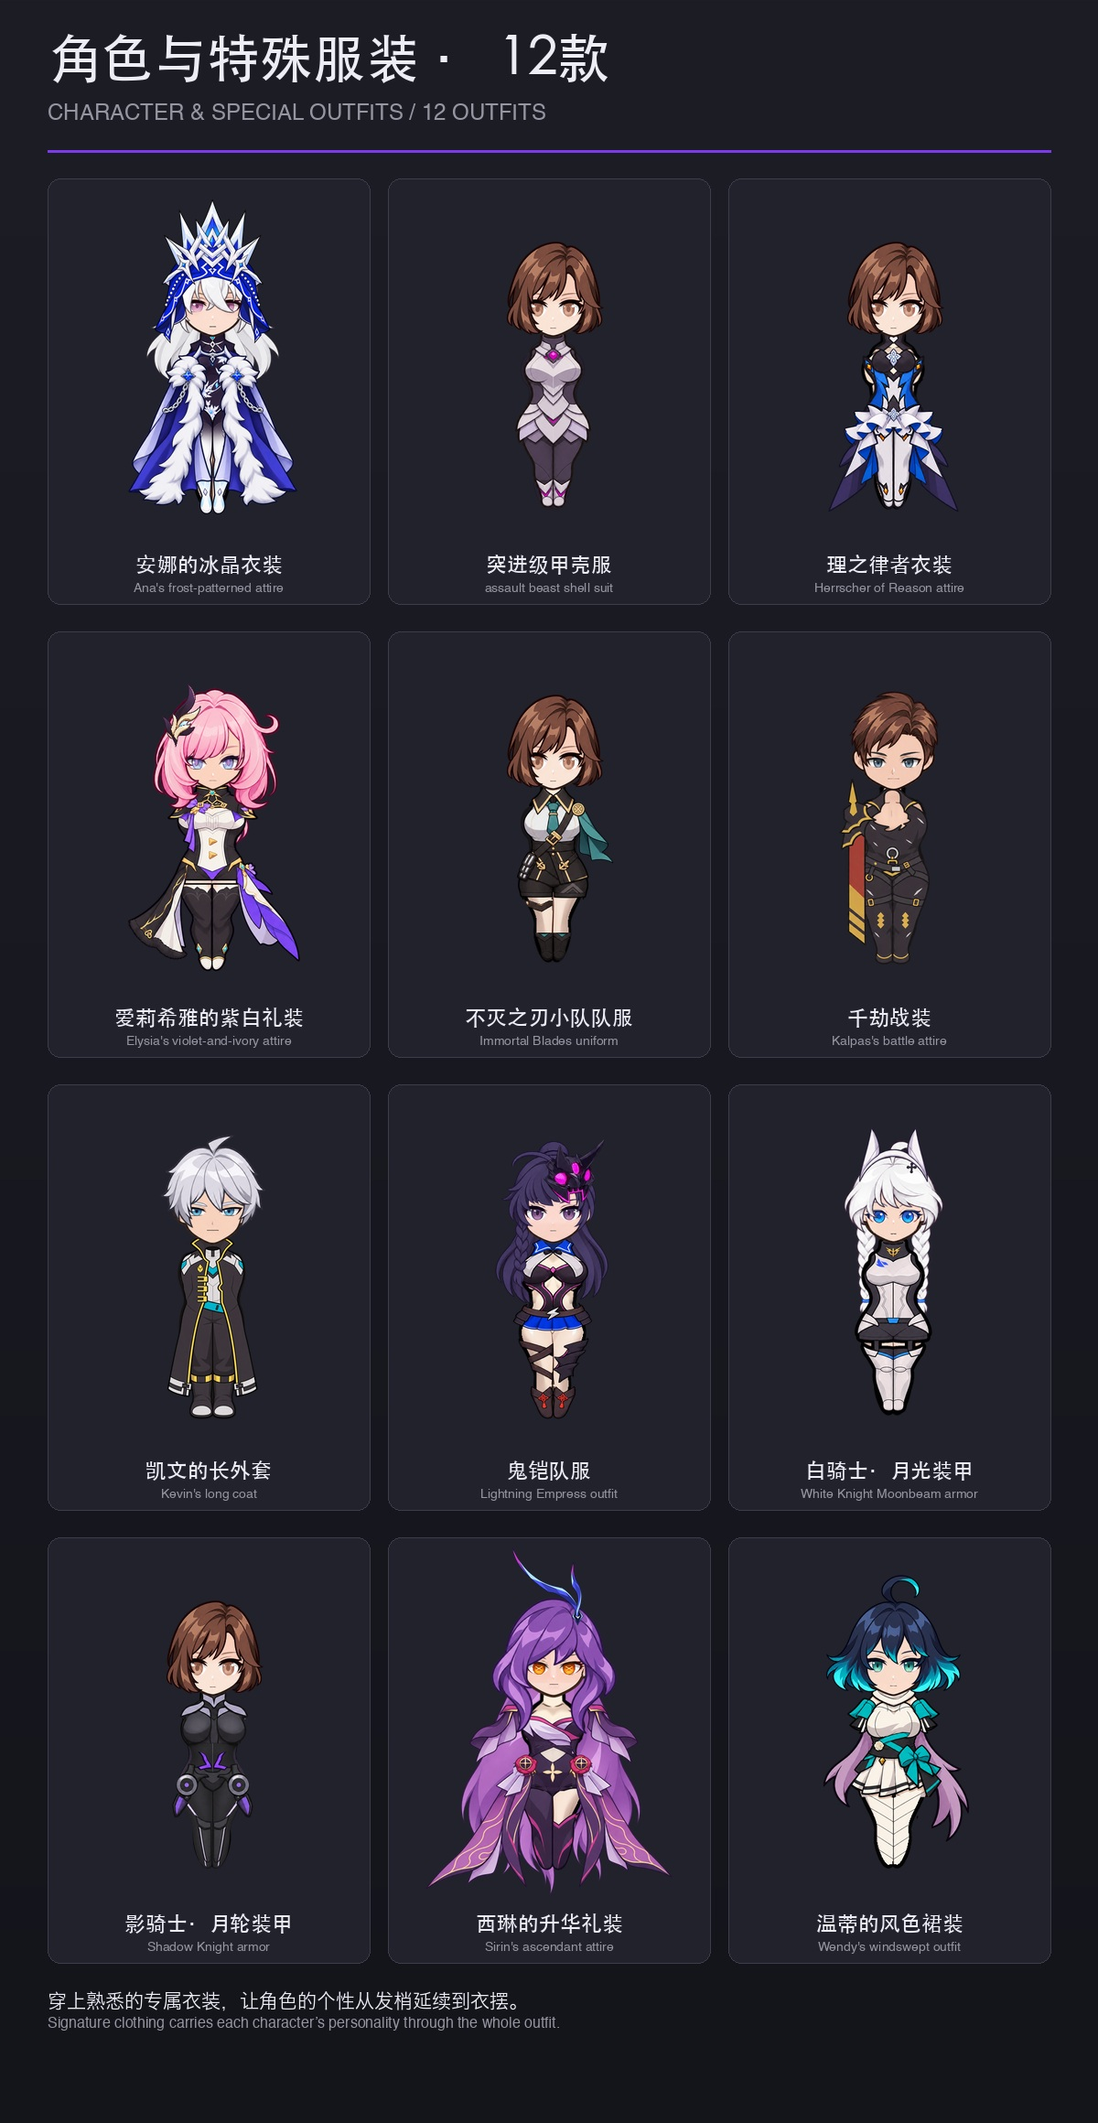
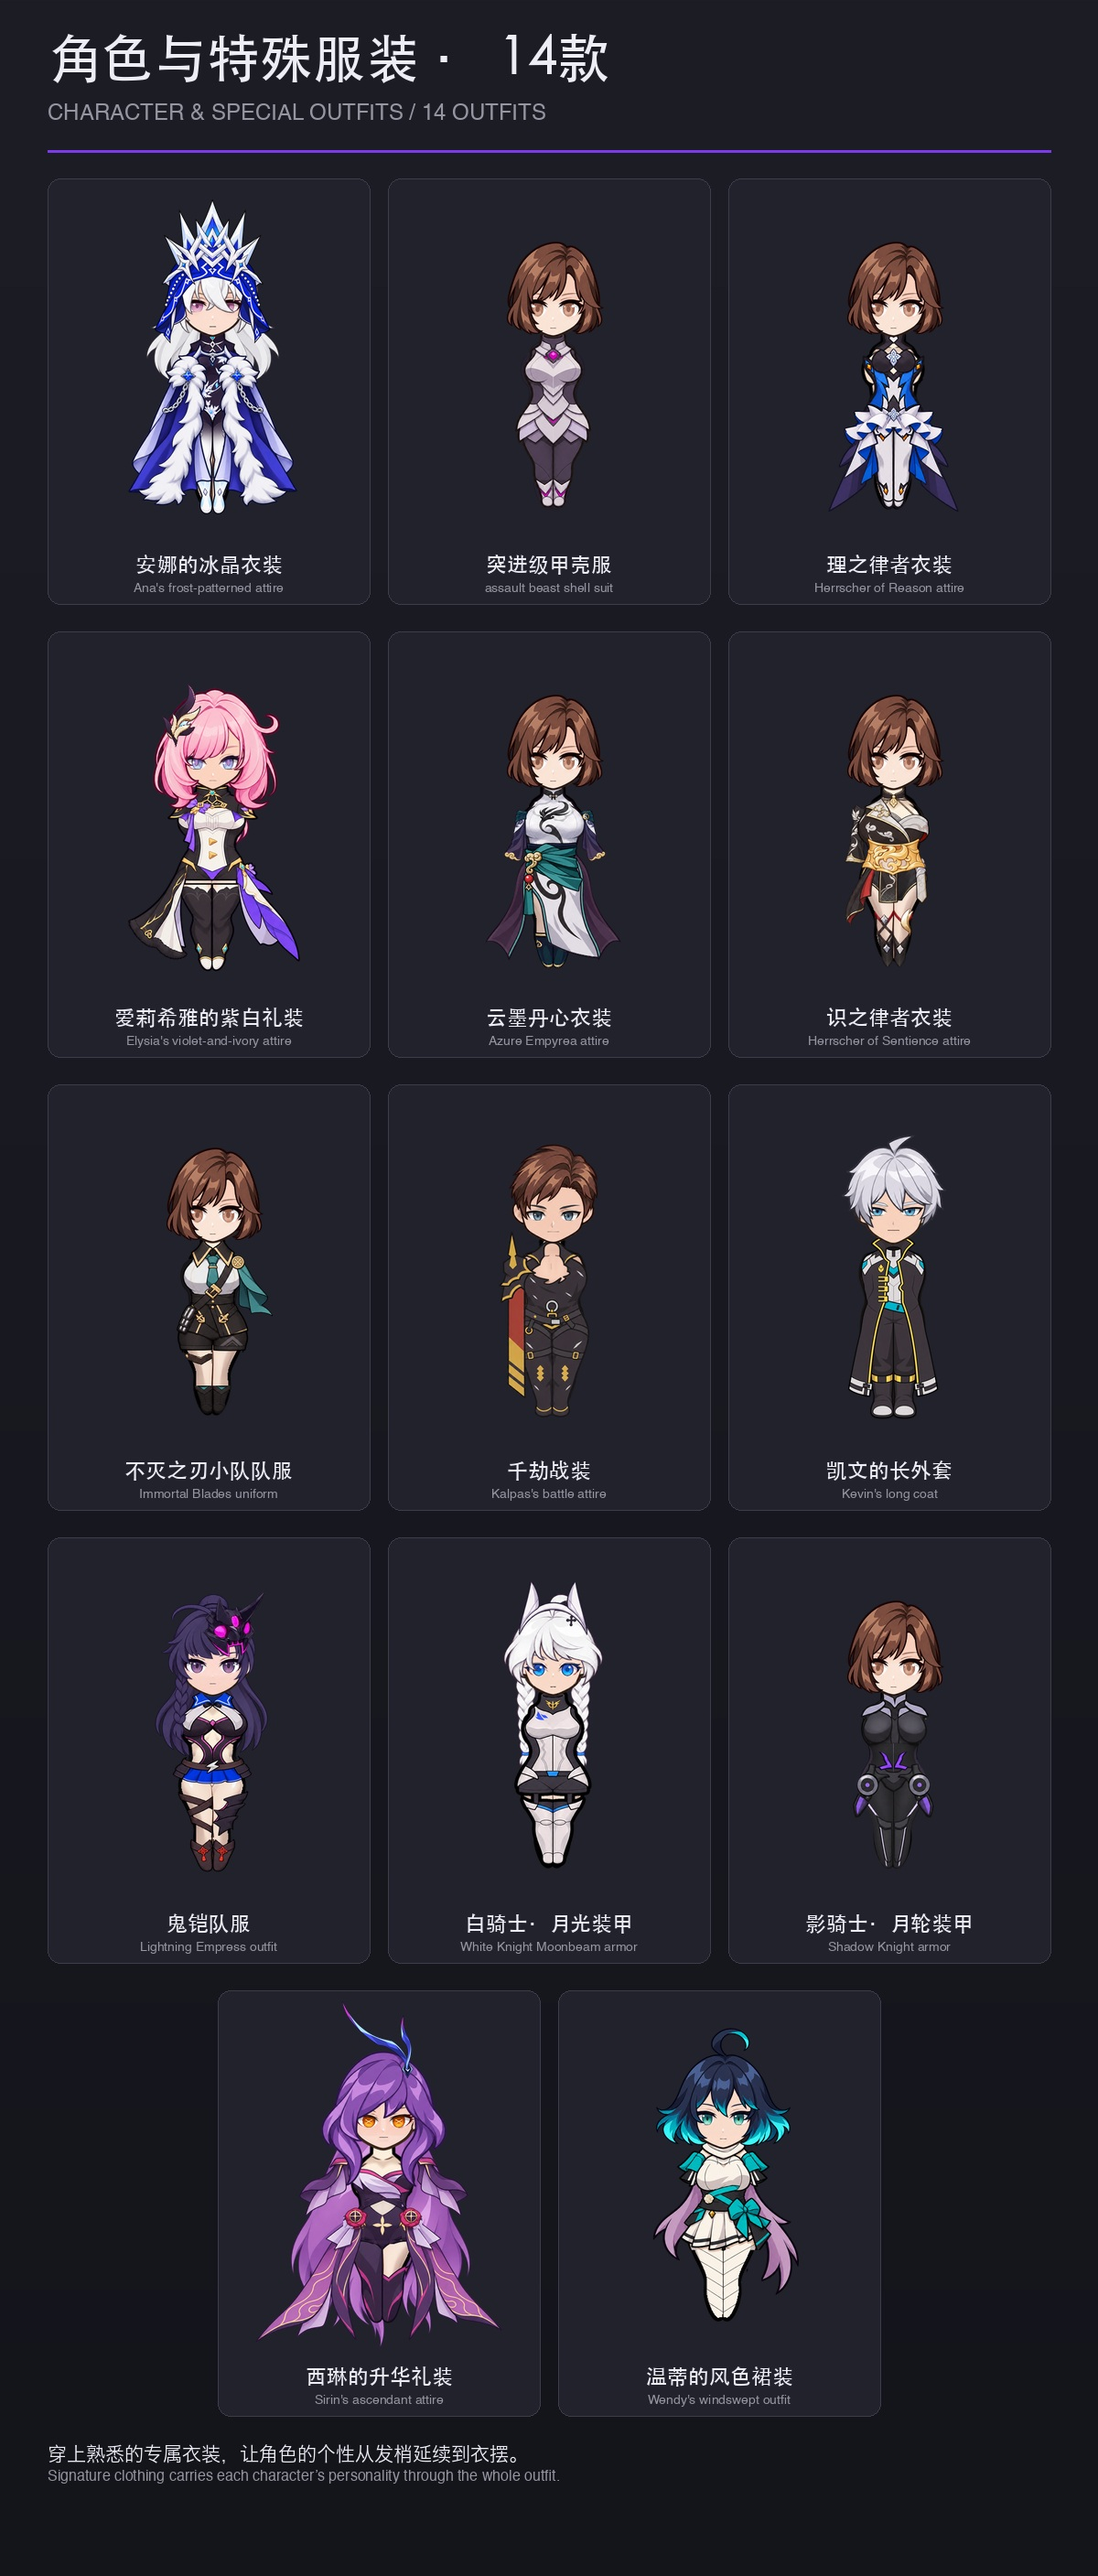
release: sync v0.1.4 documentation and images

Changed region(s): [[0.0308, 0.0, 0.74, 0.9621], [0.74, 0.0931, 0.8942, 0.931]]

diff --git a/README.md b/README.md
@@ -1,13 +1,11 @@
-# 边缘崩坏角色拓展: 群像
+# 边缘崩坏群像
 
-RimWorld 1.6 / 1.7 · Beta 0.1.0
+RimWorld 1.6 / 1.7 · Beta v0.1.4
 
-本库用于发布安装包、SHA256、版本说明及 Steam 页面配图，源码位于 https://github.com/ALANotFound/RimHonkai-Characters 。
+[下载最新版本](https://github.com/ALANotFound/RimHonkai-Characters-Releases/releases/latest) · [版本与更新说明](https://github.com/ALANotFound/RimHonkai-Characters-Releases/releases) · [Steam 创意工坊](https://steamcommunity.com/sharedfiles/filedetails/?id=3838570783)
 
-下载版本化 ZIP 后，将其中 `RimHonkai-Characters` 文件夹放进 RimWorld 的 Mods 目录。依赖和功能以源码仓库 `publishing/SteamWorkshopDescription.zh-CN.bbcode.txt` 为准。
+下载 ZIP，解压后将 `RimHonkai-Characters` 文件夹放入游戏的 Mods 目录。请同时安装群像框架 v0.1.4 或更新版本、Harmony 和 HAR。更新后重启游戏，并提前备份存档。
 
-当前状态（2026-11-13）：公开图片托管已上线至 main/images；尚未发布安装包或创建 GitHub Release；Steam 条目 ID 待首次创建后回填。
+本库保存发行包、校验文件、发布说明及工坊配图。[源码仓库](https://github.com/ALANotFound/RimHonkai-Characters)。
 
-## 页面内容维护
-
-内容来自源码仓库 `publishing/workshop_content.json`，禁止在本库分叉维护。图片由源码发布脚本同步到 `images/`；版本说明来自对应 `release-notes/vVERSION.md`。
+页面内容与图片由源码仓库的 publishing 配置维护，版本更新说明以各版本 Release 为准。

diff --git a/CHANGELOG.md b/CHANGELOG.md
@@ -1,11 +1,12 @@
-# 2026.11.12 v0.1.0 更新公告
+# 2026.11.22 v0.1.4 更新公告
 
-## 首次公开测试版本
+## 主要更新
 
-- 提供崩坏角色外观、普通族人外观池与可穿脱服装。
-- 支持 RimWorld 1.6 / 1.7，按配置提供视线、虹膜辉光、表情与头发/服装摆动。
-- 崩坏本体和Biotech为可选联动；需要Harmony、HAR和群像外观框架。
+- 新增“符华·云墨丹心”和“识之律者·默认形态”外观及配套衣装、饰品
+- 新增59款公共发型，其中男性30款、女性29款
+- 新增39件男女公共服装与配件，涵盖日常衣装、外套、裙装和领饰
+- 新增群像服装分类，区分公共服装、角色服装与头饰配件
 
-本文件是首次发布说明草稿，用于本地准备、未来GitHub Release及Steam改动说明。尚未上传。
+请同时更新群像外观框架至 v0.1.4 或更新版本，并重启游戏。
 
-> 公开测试版。更新前备份存档，兼容范围以实际验收为准；不承诺任意模组混装、拆分前旧存档或卸载兼容。
+感谢每一位参与测试的朋友，让Mod越来越好～
